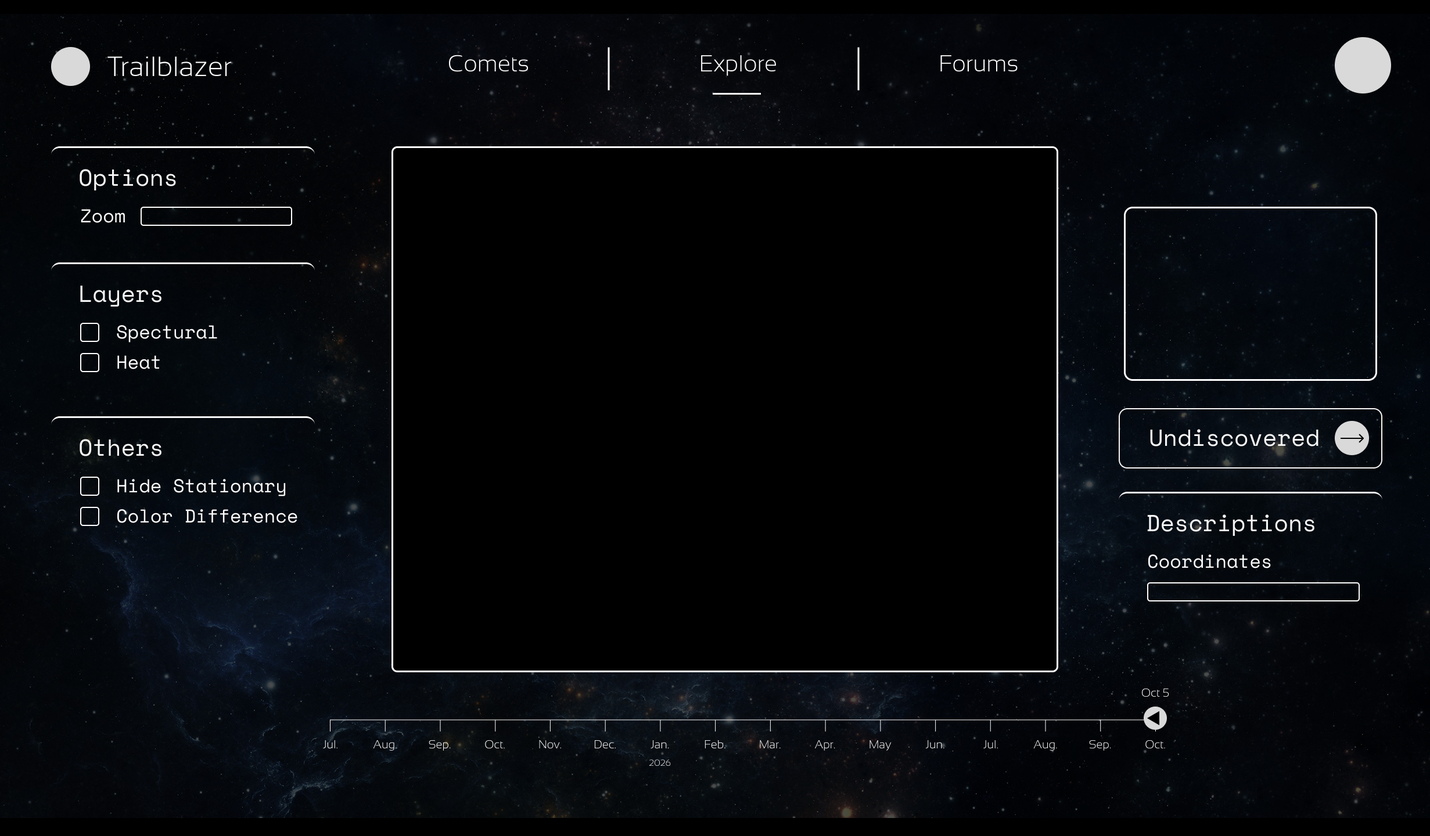
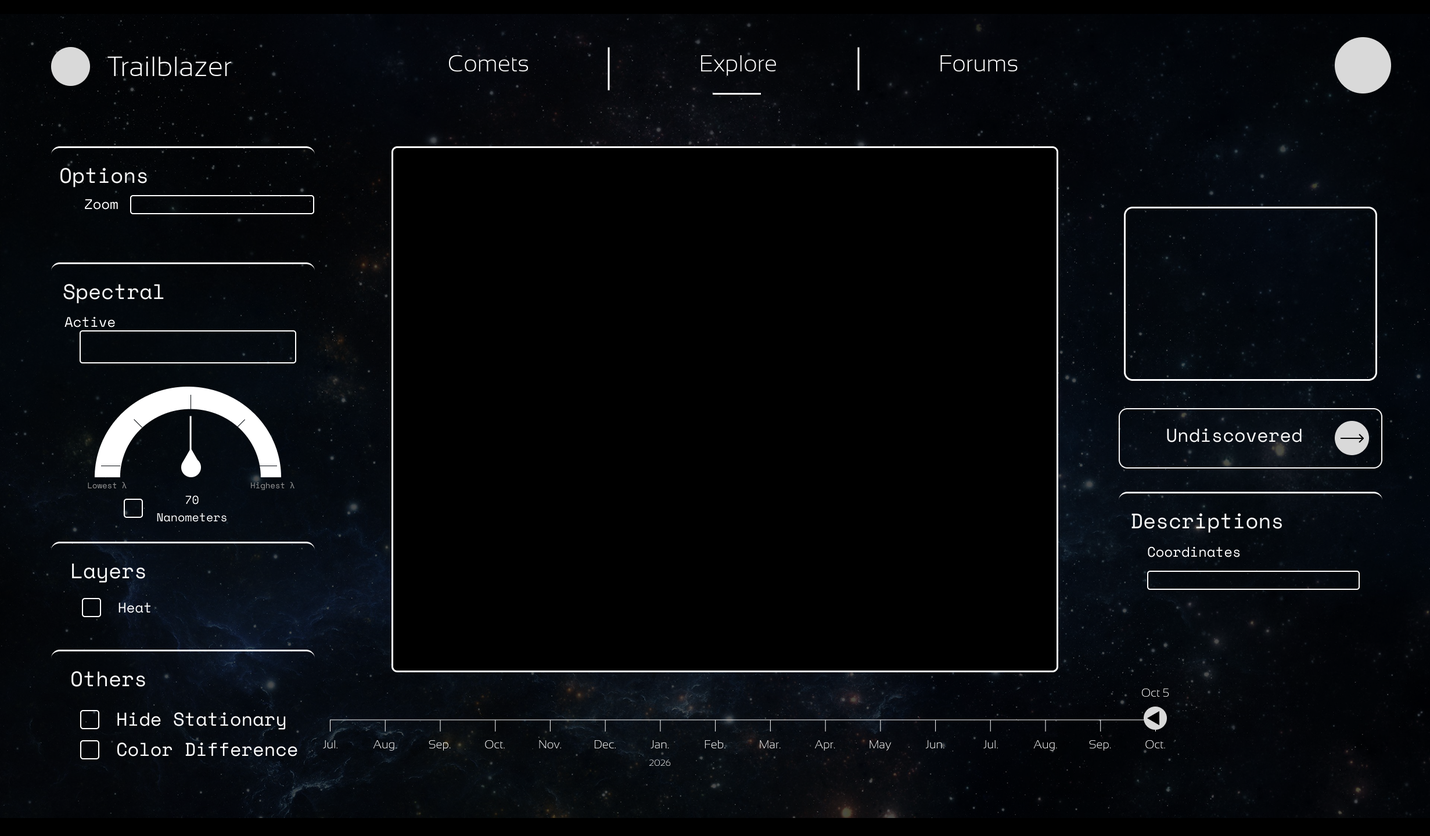
Patch viewer: updated Explore.png type sizes, and a Spectral dial
Text sizes and indents follow the revised Explore.png. A new Spectral card
steps through SPHEREx's 102 spectral channels on a dial (scroll, drag or
arrow keys); ticking the box adds that channel to the Active box, and
clicking an active chip removes it. Channel centres are log-spaced across
each detector's band until the measured ones arrive; active layers are kept
in state.spectral and announced with a spectral-layers event. The old
Spectral tint checkbox is gone; Layers keeps Heat.

diff --git a/web/timelapse.html b/web/timelapse.html
@@ -17,22 +17,50 @@
   <nav><a href="comet.html">Comets</a><a class="on" href="explore.html">Explore</a><a href="forums.html">Forums</a></nav>
 </header>
 
-<!-- Laid out from design/frontend-refactor/Explore.png (patch.css). Left: Options, Layers, Others. Middle: the patch.
-     Right: the whole region as a mini-map, Discovered/Undiscovered, Descriptions. Bottom: Explore's month timeline. -->
+<!-- Laid out from design/frontend-refactor/Explore.png (patch.css). Left: Options, Spectral, Layers, Others. Middle: the patch.
+     Right: the whole region as a mini-map, Discovered/Undiscovered, Descriptions. Bottom: Explore's month timeline.
+     Inside each left card, --x/--y/--cy are design pixels from the card's top-left corner. -->
 <div class="pstage" id="stage">
   <section class="pv-card pv-options" aria-label="Options">
-    <h2>Options</h2>
-    <label class="pv-row" for="fov">Zoom <input id="fov" type="range" min="1" max="12" step="0.5" value="6" aria-valuetext="6 arcmin wide"></label>
+    <h2 class="at" style="--x:14;--cy:50">Options</h2>
+    <label class="at t24" style="--x:57;--cy:99" for="fov">Zoom</label>
+    <input class="at" style="--x:136;--y:84" id="fov" type="range" min="1" max="12" step="0.5" value="6" aria-valuetext="6 arcmin wide">
   </section>
+
+  <!-- Spectral: SPHEREx splits its light into 102 channels. Scroll over the dial (or drag it, or use the arrow keys) to step
+       through them; tick the box to make that channel an active layer. Active layers sit in the box above; click one to
+       turn it off. The channel data is still to come: the page keeps the list (state.spectral) and announces changes. -->
+  <section class="pv-card pv-spectral" aria-label="Spectral">
+    <h2 class="at" style="--x:20;--cy:49">Spectral</h2>
+    <span class="at t24" style="--x:22;--cy:102" id="sp-active-label">Active</span>
+    <div class="at sp-active" style="--x:48;--y:117" id="sp-active" role="group" aria-labelledby="sp-active-label"></div>
+    <svg class="at sp-dial" style="--x:64.5;--y:202" id="sp-dial" viewBox="0 0 340 190" tabindex="0" role="slider" aria-label="Spectral channel. Scroll, drag or use the arrow keys" aria-valuemin="1" aria-valuemax="102" aria-valuenow="52">
+      <path class="band" d="M10 170A160 160 0 0 1 330 170H290A120 120 0 0 0 50 170Z"/>
+      <g id="sp-ticks"></g>
+      <g id="sp-marks"></g>
+      <g class="needle" id="sp-needle" style="transform-origin:170px 147px;transform-box:view-box">
+        <line x1="170" y1="120" x2="170" y2="62"/>
+        <path d="M170 113C176 125 187 135 187 147A17 17 0 1 1 153 147C153 135 164 125 170 113Z"/>
+      </g>
+    </svg>
+    <span class="at sp-end" style="--x:95;--cy:383" aria-hidden="true">Lowest λ</span>
+    <span class="at sp-end" style="--x:380;--cy:383" aria-hidden="true">Highest λ</span>
+    <input class="at cbx" style="--x:124;--y:407" type="checkbox" id="sp-on">
+    <label class="at sp-read" style="--x:241;--cy:408" for="sp-on" id="sp-nm">&nbsp;</label>
+    <label class="at sp-read" style="--x:241;--cy:438" for="sp-on">Nanometers</label>
+  </section>
+
   <section class="pv-card pv-layers" aria-label="Layers">
-    <h2>Layers</h2>
-    <label class="pv-row"><input class="cbx" type="checkbox" id="ly-spec"><span>Spectral</span></label>
-    <label class="pv-row"><input class="cbx" type="checkbox" id="ly-heat"><span>Heat</span></label>
+    <h2 class="at" style="--x:33;--cy:49">Layers</h2>
+    <input class="at cbx" style="--x:53;--y:96" type="checkbox" id="ly-heat">
+    <label class="at t24" style="--x:115;--cy:112" for="ly-heat">Heat</label>
   </section>
   <section class="pv-card pv-others" aria-label="Others">
-    <h2>Others</h2>
-    <label class="pv-row"><input class="cbx" type="checkbox" id="still"><span>Hide Stationary</span></label>
-    <label class="pv-row"><input class="cbx" type="checkbox" id="diff"><span>Color Difference</span></label>
+    <h2 class="at" style="--x:33;--cy:50">Others</h2>
+    <input class="at cbx" style="--x:49;--cy:119" type="checkbox" id="still">
+    <label class="at t32" style="--x:112;--cy:119" for="still">Hide Stationary</label>
+    <input class="at cbx" style="--x:49;--cy:171" type="checkbox" id="diff">
+    <label class="at t32" style="--x:112;--cy:171" for="diff">Color Difference</label>
   </section>
 
   <div class="pv-frame">
@@ -127,7 +155,7 @@ function load(key) {
 }
 TARGETS.forEach(t => load(t.key).catch(() => {}));   // preload: the demo never waits on the network
 
-const state = { m: null, i: 0, playing: false, last: 0, diff: false, still: false, heat: false, spec: false, fov: 6 };   // opens 6 arcmin wide; zoom to 1.5 for a 2-pixel move
+const state = { m: null, i: 0, playing: false, last: 0, diff: false, still: false, heat: false, fov: 6, spectral: [] };   // opens 6 arcmin wide; zoom to 1.5 for a 2-pixel move
 const patch = document.getElementById('patch'), ctx = patch.getContext('2d');
 const mini = document.getElementById('mini'), mini2d = mini.getContext('2d');
 const MONTH = ['Jan', 'Feb', 'Mar', 'Apr', 'May', 'Jun', 'Jul', 'Aug', 'Sep', 'Oct', 'Nov', 'Dec'];
@@ -144,11 +172,95 @@ const found = P.get('found');
   if (found) { const n = document.getElementById('vName'); n.hidden = false; n.innerHTML = 'Found as <b></b>'; n.querySelector('b').textContent = found; }
 }
 
+// ---------- Spectral: a dial through SPHEREx's 102 spectral channels, and the list of active ones ----------
+// SPHEREx has 6 detectors of 17 channels each, 0.75 to 5.0 µm. Channel centres here are spaced evenly in log wavelength
+// across each detector's band (the bands' published edges), close to the real ones; swap in the measured centres when
+// the per-channel data arrives. The dial runs from the lowest channel (needle left) to the highest (needle right).
+const SP_BANDS = [[0.75, 1.11], [1.11, 1.64], [1.64, 2.42], [2.42, 3.82], [3.82, 4.42], [4.42, 5.00]];
+const CHANNELS = SP_BANDS.flatMap(([lo, hi], d) => Array.from({ length: 17 }, (_, k) =>
+  ({ n: d * 17 + k, detector: `D${d + 1}`, um: lo * (hi / lo) ** ((k + 0.5) / 17) })));
+const nmOf = c => Math.round(c.um * 1000);
+const spectral = (() => {
+  const dial = document.getElementById('sp-dial'), needle = document.getElementById('sp-needle'), box = document.getElementById('sp-active');
+  const on = document.getElementById('sp-on'), read = document.getElementById('sp-nm'), marks = document.getElementById('sp-marks');
+  const N = CHANNELS.length, A0 = 172, A1 = 8, PX = 170, PY = 147;   // needle angle (degrees from +x) at the first and last channel; pivot
+  const angle = i => A0 - (A0 - A1) * i / (N - 1);
+  const polar = (deg, r, cx = 170, cy = 170) => [cx + r * Math.cos(deg * Math.PI / 180), cy - r * Math.sin(deg * Math.PI / 180)];
+  // the five ticks across the band: both ends, a quarter, the middle, three quarters
+  const ticks = document.getElementById('sp-ticks');
+  for (const deg of [A0, 135, 90, 45, A1]) {
+    const [x1, y1] = polar(deg, 120), [x2, y2] = polar(deg, 146);
+    ticks.insertAdjacentHTML('beforeend', `<line class="tick" x1="${x1.toFixed(1)}" y1="${y1.toFixed(1)}" x2="${x2.toFixed(1)}" y2="${y2.toFixed(1)}"/>`);
+  }
+  const api = { i: Math.floor(N / 2), active: new Set(), touched: false };
+  function emit() {
+    state.spectral = [...api.active].sort((a, b) => a - b).map(n => CHANNELS[n]);
+    dispatchEvent(new CustomEvent('spectral-layers', { detail: state.spectral }));   // for the per-channel layers, once their data exists
+  }
+  function paint() {
+    const c = CHANNELS[api.i];
+    needle.style.transform = `rotate(${90 - angle(api.i)}deg)`;
+    read.textContent = nmOf(c).toLocaleString('en-US');
+    on.checked = api.active.has(api.i);
+    on.setAttribute('aria-label', `Show the ${nmOf(c)} nanometre layer`);
+    dial.setAttribute('aria-valuenow', api.i + 1);
+    dial.setAttribute('aria-valuetext', `Channel ${api.i + 1} of ${N}: ${nmOf(c)} nanometres, detector ${c.detector}`);
+    box.querySelectorAll('.sp-chip').forEach(b => b.classList.toggle('cur', +b.dataset.n === api.i));
+  }
+  function chips() {
+    box.replaceChildren(...[...api.active].sort((a, b) => a - b).map(n => {
+      const b = document.createElement('button'), c = CHANNELS[n];
+      b.type = 'button'; b.className = 'sp-chip'; b.dataset.n = n; b.textContent = `${nmOf(c).toLocaleString('en-US')} nm`;
+      b.title = `Detector ${c.detector}. Click to turn this layer off`;
+      b.setAttribute('aria-label', `${nmOf(c)} nanometres, active. Click to turn it off`);
+      b.onclick = () => api.toggle(n, false);
+      return b;
+    }));
+    marks.innerHTML = [...api.active].map(n => { const [x, y] = polar(angle(n), 154); return `<circle class="on" cx="${x.toFixed(1)}" cy="${y.toFixed(1)}" r="3.5"/>`; }).join('');
+    paint();
+    const cur = box.querySelector('.cur');   // more layers than fit: scroll the box to the one on the dial
+    if (cur) box.scrollLeft = Math.max(0, Math.min(box.scrollLeft, cur.offsetLeft - 8), cur.offsetLeft + cur.offsetWidth - box.clientWidth + 8);
+  }
+  api.set = (i, byUser = true) => { i = Math.max(0, Math.min(N - 1, Math.round(i))); if (byUser) api.touched = true; if (i !== api.i) { api.i = i; paint(); } };
+  api.toggle = (n, want = !api.active.has(n)) => { want ? api.active.add(n) : api.active.delete(n); chips(); emit(); };
+  // open on the channel nearest the patch's own wavelength, until the user turns the dial
+  api.follow = um => { if (!api.touched) api.set(CHANNELS.reduce((b, c) => (Math.abs(Math.log(c.um / um)) < Math.abs(Math.log(CHANNELS[b].um / um)) ? c.n : b), 0), false); };
+
+  // scroll over the dial: one channel per wheel notch (a trackpad's small steps add up to one)
+  let acc = 0;
+  dial.addEventListener('wheel', e => {
+    e.preventDefault();
+    const d = Math.abs(e.deltaY) >= Math.abs(e.deltaX) ? e.deltaY : e.deltaX;
+    if (e.deltaMode || Math.abs(d) >= 50) { acc = 0; api.set(api.i + Math.sign(d)); return; }
+    acc += d;
+    if (Math.abs(acc) >= 40) { api.set(api.i + Math.sign(acc)); acc = 0; }
+  }, { passive: false });
+  // or drag the needle round
+  const fromPointer = e => {
+    const r = dial.getBoundingClientRect(), x = (e.clientX - r.left) / r.width * 340, y = (e.clientY - r.top) / r.height * 190;
+    const deg = Math.atan2(PY - y, x - PX) * 180 / Math.PI, clamped = deg < -90 ? 180 : Math.max(A1, Math.min(A0, deg));
+    api.set((A0 - clamped) / (A0 - A1) * (N - 1));
+  };
+  dial.addEventListener('pointerdown', e => { if (e.button) return; dial.setPointerCapture(e.pointerId); dial.focus({ preventScroll: true }); fromPointer(e); });
+  dial.addEventListener('pointermove', e => { if (dial.hasPointerCapture(e.pointerId)) fromPointer(e); });
+  dial.addEventListener('keydown', e => {
+    const step = { ArrowLeft: -1, ArrowDown: -1, ArrowRight: 1, ArrowUp: 1, PageDown: -17, PageUp: 17 }[e.key];
+    if (step) api.set(api.i + step);
+    else if (e.key === 'Home') api.set(0);
+    else if (e.key === 'End') api.set(N - 1);
+    else if (e.key === 'Enter' || e.key === ' ') api.toggle(api.i);
+    else return;
+    e.preventDefault(); e.stopPropagation();
+  });
+  on.addEventListener('change', () => api.toggle(api.i, on.checked));
+  chips();
+  return api;
+})();
+window.__spectral = spectral;   // for tests
+
 // ---------- layers ----------
-// Spectral: tint by the band's wavelength, 0.75 µm (blue) to 5 µm (red), the way infrared pictures are usually coloured.
-const RAMP = [[0, [120, 170, 255]], [.2, [110, 225, 255]], [.4, [140, 255, 170]], [.6, [255, 235, 120]], [.8, [255, 160, 80]], [1, [255, 95, 95]]];
 const HEAT = [[0, [120, 20, 10]], [.45, [235, 70, 30]], [.8, [255, 170, 60]], [1, [255, 245, 190]]];
-function ramp(t, stops = RAMP) {
+function ramp(t, stops) {
   t = Math.min(1, Math.max(0, t));
   for (let n = 1; n < stops.length; n++) if (t <= stops[n][0]) {
     const [t0, a] = stops[n - 1], [t1, b] = stops[n], f = (t - t0) / (t1 - t0);
@@ -193,7 +305,7 @@ function shade(m, f, c, r, data, j) {
     else {
       const x = Number.isFinite(x0) ? Math.asinh(Math.max(0, (x0 - (state.still ? 0 : lo)) / (fieldHi - lo)) * 10) / A : (state.still ? 0 : 1);
       const g = Math.min(1, x);
-      rgb = state.spec ? ramp((f.lam - 0.75) / 4.25).map(t => g * t) : [255 * g, 247 * g, 235 * g];
+      rgb = [255 * g, 247 * g, 235 * g];
     }
   }
   if (state.heat && m.sd) {   // Heat: the pixels that change most between visits glow, dark red to pale yellow
@@ -302,6 +414,7 @@ function panel(m) {
   const matched = m.frames.filter(f => f.matched).length;
   document.getElementById('det').title = `Wavelength ${m.lam0.toFixed(2)} µm: ${matched} of ${m.frames.length} visits within ${m.lam_tol.toFixed(3)} µm, detector ${m.detector}`;
   timeline.visits(m);
+  spectral.follow(m.lam0);   // the dial opens on this patch's own wavelength
 }
 
 // ---------- timeline (Explore's): a tick per month across SPHEREx's data, a dot per visit, the date over the handle ----------
@@ -455,7 +568,7 @@ const fov = document.getElementById('fov');
 const setFov = () => { state.fov = 13 - +fov.value; fov.style.setProperty('--p', (+fov.value - 1) / 11 * 100 + '%'); fov.setAttribute('aria-valuetext', `${state.fov} arcmin wide`); };
 fov.value = 13 - state.fov; setFov();
 fov.oninput = () => { setFov(); draw(); };
-for (const [id, key] of [['diff', 'diff'], ['still', 'still'], ['ly-heat', 'heat'], ['ly-spec', 'spec']])
+for (const [id, key] of [['diff', 'diff'], ['still', 'still'], ['ly-heat', 'heat']])
   document.getElementById(id).onchange = e => { state[key] = e.target.checked; draw(); };
 addEventListener('keydown', e => {
   if (!state.m || /INPUT|SELECT/.test(e.target.tagName) || e.target === playBtn) return;

diff --git a/web/patch.css b/web/patch.css
@@ -20,14 +20,20 @@ canvas#gl.drag { cursor: grabbing; }
 }
 .pstage > * { position: absolute; pointer-events: auto; }
 
-/* ---------- cards: a white top rule that curls down at both ends, on black ---------- */
-.pv-card { margin: 0; padding: calc(27 * var(--e)) 0 calc(22 * var(--e)) calc(46 * var(--e)); background: #000; border: 0; border-top: max(1.5px, calc(3 * var(--e))) solid #fff; border-radius: calc(20 * var(--e)) calc(20 * var(--e)) 0 0; }
-.pv-card h2 { margin: 0 0 calc(26 * var(--e)); font: 400 calc(40 * var(--e)) / 1 var(--panel-font); letter-spacing: 0; color: #fff; }
-.pv-options { left: calc(89 * var(--e)); top: calc(230 * var(--e)); width: calc(453 * var(--e)); }
-.pv-layers { left: calc(89 * var(--e)); top: calc(430 * var(--e)); width: calc(453 * var(--e)); }
-.pv-others { left: calc(89 * var(--e)); top: calc(694 * var(--e)); width: calc(453 * var(--e)); }
-.pv-row { display: flex; align-items: center; gap: calc(30 * var(--e)); height: calc(42 * var(--e)); margin: 0 0 calc(11 * var(--e)) calc(3 * var(--e)); font-size: calc(32 * var(--e)); color: #f2f2f2; white-space: nowrap; }
-label.pv-row { cursor: pointer; }
+/* ---------- cards: a white top rule that curls down at both ends, on black ----------
+   Each card is laid out in its own design pixels (Explore.png, 2026-11-15 revision): .at children sit at
+   left --x, and either top --y or vertical centre --cy, measured from the card's top-left corner. */
+.pv-card { margin: 0; padding: 0; box-sizing: border-box; background: #000; border: 0; border-top: max(1.5px, calc(3 * var(--e))) solid #fff; border-radius: calc(20 * var(--e)) calc(20 * var(--e)) 0 0; color: #f2f2f2; }
+.pv-card .at { position: absolute; margin: 0; left: calc(var(--x) * var(--e)); top: calc(var(--y, 0) * var(--e)); }
+.pv-card .at[style*="--cy"] { top: calc(var(--cy) * var(--e)); transform: translateY(-50%); }
+.pv-card h2 { font: 400 calc(36 * var(--e)) / 1 var(--panel-font); letter-spacing: 0; color: #fff; white-space: nowrap; }
+.t24 { font-size: calc(24 * var(--e)); line-height: 1; white-space: nowrap; }
+.t32 { font-size: calc(32 * var(--e)); line-height: 1; white-space: nowrap; }
+label.at { cursor: pointer; }
+.pv-options { left: calc(89 * var(--e)); top: calc(228 * var(--e)); width: calc(452 * var(--e)); height: calc(150 * var(--e)); }
+.pv-spectral { left: calc(89 * var(--e)); top: calc(428 * var(--e)); width: calc(452 * var(--e)); height: calc(462 * var(--e)); }
+.pv-layers { left: calc(89 * var(--e)); top: calc(910 * var(--e)); width: calc(452 * var(--e)); height: calc(160 * var(--e)); }
+.pv-others { left: calc(89 * var(--e)); top: calc(1095 * var(--e)); width: calc(452 * var(--e)); height: calc(212 * var(--e)); }
 
 /* the checkbox from Explore's Layers, at design size */
 .cbx { -webkit-appearance: none; appearance: none; flex: none; width: calc(32 * var(--e)); height: calc(32 * var(--e)); min-width: 14px; min-height: 14px; margin: 0; border: max(1.5px, calc(3 * var(--e))) solid #fff; border-radius: calc(4 * var(--e)); background: transparent; cursor: pointer; display: grid; place-items: center; }
@@ -35,12 +41,34 @@ label.pv-row { cursor: pointer; }
 .cbx:checked::after { transform: none; }
 .cbx:focus-visible { outline: 2px solid #fff; outline-offset: 2px; }
 
-/* Zoom: an outlined bar that fills as you zoom in */
-#fov { -webkit-appearance: none; appearance: none; width: calc(260 * var(--e)); height: calc(31 * var(--e)); min-height: 12px; margin: 0; box-sizing: border-box; border: max(1.5px, calc(3 * var(--e))) solid #fff; border-radius: calc(5 * var(--e)); cursor: pointer;
+/* Zoom: an outlined bar that fills as you zoom in; it runs to the card's right edge */
+#fov { -webkit-appearance: none; appearance: none; width: calc(315 * var(--e)); height: calc(31 * var(--e)); min-height: 12px; box-sizing: border-box; border: max(1.5px, calc(3 * var(--e))) solid #fff; border-radius: calc(5 * var(--e)); cursor: pointer;
   background: linear-gradient(rgba(255, 255, 255, .5), rgba(255, 255, 255, .5)) 0 0 / var(--p, 50%) 100% no-repeat; }
 #fov::-webkit-slider-thumb { -webkit-appearance: none; width: calc(8 * var(--e)); min-width: 4px; height: calc(31 * var(--e)); min-height: 12px; background: #fff; border: 0; border-radius: 0; }
 #fov::-moz-range-thumb { width: calc(8 * var(--e)); min-width: 4px; height: calc(25 * var(--e)); background: #fff; border: 0; border-radius: 0; }
 #fov:focus-visible { outline: 2px solid #fff; outline-offset: 3px; }
+
+/* ---------- Spectral: the active layers, and a dial through SPHEREx's 102 spectral channels ---------- */
+.sp-active { width: calc(372 * var(--e)); height: calc(55 * var(--e)); min-height: 26px; box-sizing: border-box; display: flex; align-items: center; gap: calc(10 * var(--e)); padding: 0 calc(10 * var(--e));
+  border: max(1.5px, calc(3 * var(--e))) solid #fff; border-radius: calc(5 * var(--e)); overflow-x: auto; overflow-y: hidden; scrollbar-width: none; }
+.sp-active::-webkit-scrollbar { display: none; }
+.sp-active:empty::before { content: "None yet"; font-size: calc(18 * var(--e)); color: rgba(255, 255, 255, .38); }
+.sp-chip { flex: none; display: inline-flex; align-items: center; gap: calc(8 * var(--e)); height: calc(33 * var(--e)); min-height: 18px; padding: 0 calc(12 * var(--e)); border: max(1px, calc(2 * var(--e))) solid #fff; border-radius: 999px; background: #000; color: #fff;
+  font: 400 calc(17 * var(--e)) / 1 var(--panel-font); white-space: nowrap; cursor: pointer; transition: background .15s, color .15s; }
+.sp-chip::after { content: "\00d7"; font-size: 1.2em; opacity: .6; }
+.sp-chip:hover, .sp-chip:focus-visible { background: #fff; color: #000; outline: 0; }
+.sp-chip.cur { box-shadow: 0 0 0 calc(3 * var(--e)) rgba(255, 255, 255, .35); }
+.sp-dial { width: calc(340 * var(--e)); height: calc(190 * var(--e)); display: block; overflow: visible; cursor: ns-resize; touch-action: none; outline: 0; }
+.sp-dial .band { fill: #fff; }
+.sp-dial .tick { stroke: #000; stroke-width: 3; stroke-linecap: butt; }
+.sp-dial .on { fill: #000; }   /* active channels: a short notch on the band */
+.sp-dial .needle { transition: transform .12s var(--ease); }
+.sp-dial .needle line { stroke: #fff; stroke-width: 4; stroke-linecap: round; }
+.sp-dial .needle path { fill: #fff; }
+.sp-dial:focus-visible .band { fill: #e8eefc; }
+.sp-dial:focus-visible { filter: drop-shadow(0 0 calc(10 * var(--e)) rgba(255, 255, 255, .45)); }
+.sp-end { font-size: calc(14 * var(--e)); line-height: 1; color: #aeb6c6; white-space: nowrap; transform: translate(-50%, -50%) !important; }
+.sp-read { text-align: center; font-size: calc(20 * var(--e)); line-height: 1; white-space: nowrap; transform: translate(-50%, -50%) !important; }
 
 /* ---------- the patch ---------- */
 .pv-frame { left: calc(675 * var(--e)); top: calc(229 * var(--e)); width: calc(1146 * var(--e)); height: calc(902 * var(--e)); box-sizing: border-box; border: max(1.5px, calc(3 * var(--e))) solid #fff; border-radius: calc(10 * var(--e)); background: #000; overflow: hidden; }
@@ -56,24 +84,27 @@ body.busy .pv-frame { animation: breathe 1.6s ease-in-out infinite; }
 .pv-mini { left: calc(1936 * var(--e)); top: calc(332 * var(--e)); width: calc(434 * var(--e)); height: calc(297 * var(--e)); box-sizing: border-box; border: max(1.5px, calc(3 * var(--e))) solid #fff; border-radius: calc(14 * var(--e)); overflow: hidden; }
 #mini { display: block; width: 100%; height: 100%; }
 
-.pv-state { left: calc(1927 * var(--e)); top: calc(680 * var(--e)); width: calc(451 * var(--e)); height: calc(102 * var(--e)); box-sizing: border-box; display: flex; align-items: center; justify-content: space-between;
-  padding: 0 calc(21 * var(--e)) 0 calc(49 * var(--e)); border: max(1.5px, calc(3 * var(--e))) solid #fff; border-radius: calc(16 * var(--e)); background: #000; color: #fff; text-decoration: none;
-  font: 400 calc(41 * var(--e)) / 1 var(--panel-font); letter-spacing: .02em; transition: background .2s; }
+.pv-state { left: calc(1927 * var(--e)); top: calc(680 * var(--e)); width: calc(451 * var(--e)); height: calc(102 * var(--e)); box-sizing: border-box; display: flex; align-items: center;
+  padding: 0 calc(21 * var(--e)) 0 calc(21 * var(--e)); border: max(1.5px, calc(3 * var(--e))) solid #fff; border-radius: calc(16 * var(--e)); background: #000; color: #fff; text-decoration: none;
+  font: 400 calc(32 * var(--e)) / 1 var(--panel-font); letter-spacing: .02em; transition: background .2s; }
+.pv-state > span:first-child { flex: 1; text-align: center; }   /* the word sits centred in the space left of the arrow */
 .pv-state:hover { background: #141414; }
 .pv-state:focus-visible { outline: 2px solid #fff; outline-offset: 3px; }
 .pv-state .go { flex: none; width: calc(59 * var(--e)); height: calc(59 * var(--e)); min-width: 24px; min-height: 24px; border-radius: 50%; background: #ececec; color: #050505; display: grid; place-items: center; transition: transform .2s var(--ease); }
 .pv-state .go svg { width: 62%; height: 62%; fill: none; stroke: currentColor; stroke-width: 1.6; stroke-linecap: round; stroke-linejoin: round; }
 .pv-state:hover .go { transform: translateX(calc(4 * var(--e))); }
 
-.pv-desc { left: calc(1927 * var(--e)); top: calc(825 * var(--e)); width: calc(451 * var(--e)); max-height: calc(335 * var(--e)); box-sizing: border-box; padding-right: calc(30 * var(--e)); overflow-y: auto; scrollbar-width: thin; }
-.pv-desc h2 { margin-bottom: calc(32 * var(--e)); }
-.pv-desc label { display: block; font-size: calc(32 * var(--e)); line-height: 1; color: #f2f2f2; }
-.pv-desc .box { display: block; width: calc(364 * var(--e)); height: calc(31 * var(--e)); min-height: 14px; margin: calc(21 * var(--e)) 0 0 calc(3 * var(--e)); box-sizing: border-box; padding: 0 calc(10 * var(--e));
+/* Descriptions: title 21 in from the rule, everything under it a further 28 in (to the Coordinates box) */
+.pv-desc { left: calc(1927 * var(--e)); top: calc(825 * var(--e)); width: calc(451 * var(--e)); max-height: calc(335 * var(--e)); padding: calc(26 * var(--e)) calc(30 * var(--e)) calc(22 * var(--e)) calc(21 * var(--e)); overflow-y: auto; scrollbar-width: thin; }
+.pv-desc h2 { position: static; margin: 0 0 calc(23 * var(--e)); }
+.pv-desc form, .pv-desc .pv-info { margin-left: calc(28 * var(--e)); }
+.pv-desc label { display: block; font-size: calc(24 * var(--e)); line-height: 1; color: #f2f2f2; }
+.pv-desc .box { display: block; width: calc(364 * var(--e)); height: calc(31 * var(--e)); min-height: 14px; margin: calc(22 * var(--e)) 0 0; box-sizing: border-box; padding: 0 calc(10 * var(--e));
   border: max(1.5px, calc(3 * var(--e))) solid #fff; border-radius: calc(5 * var(--e)); background: transparent; color: #fff; font: 400 calc(19 * var(--e)) / 1 var(--panel-font); outline: 0; }
 .pv-desc .box:focus { background: rgba(255, 255, 255, .08); }
 .pv-desc select.box { appearance: none; -webkit-appearance: none; cursor: pointer; }
 .pv-desc select.box option { background: #0b0f1a; }
-.pv-desc .sub { display: flex; align-items: center; gap: calc(14 * var(--e)); margin-top: calc(14 * var(--e)); font-size: calc(22 * var(--e)); color: #cfd6e4; }
+.pv-desc .sub { display: flex; align-items: center; gap: calc(14 * var(--e)); width: calc(364 * var(--e)); margin-top: calc(14 * var(--e)); }
 .pv-desc .sub .box { flex: 1; width: auto; margin: 0; }
 .pv-info { margin: calc(16 * var(--e)) 0 0; font: 400 calc(20 * var(--e)) / 1.4 var(--panel-font); color: #cfd6e4; }
 .pv-info b { color: #fff; font-weight: 400; }
@@ -126,11 +157,10 @@ body:not(.sky) #skyui, body:not(.sky) .tmark { display: none !important; }   /* 
   .pv-state { order: 3; height: 56px; font-size: 20px; padding: 0 12px 0 22px; }
   .pv-mini { order: 4; width: min(100%, 434px); height: auto; aspect-ratio: 434 / 297; }
   .pv-desc { order: 5; max-height: none; padding-right: 0; }
-  .pv-options { order: 6; } .pv-layers { order: 7; } .pv-others { order: 8; }
-  .pv-card { padding: 14px 0 0 18px; border-top-width: 1.5px; }
-  .pv-card h2 { font-size: 20px; margin-bottom: 12px; }
-  .pv-row, .pv-desc label { font-size: 15px; height: 32px; gap: 14px; }
-  #fov { width: 180px; height: 16px; }
+  .pv-options { order: 6; } .pv-spectral { order: 7; } .pv-layers { order: 8; } .pv-others { order: 9; }
+  /* the left cards keep their own layout, at three quarters of a pixel per design pixel (339 px wide) */
+  .pv-options, .pv-spectral, .pv-layers, .pv-others { --e: .75px; width: calc(452 * var(--e)); max-width: 100%; }
+  .pv-desc label { font-size: 15px; }
   .pv-desc .box { width: min(100%, 320px); height: 34px; font-size: 14px; margin-top: 10px; }
   .pv-desc .sub, .pv-info { font-size: 13px; }
   #status { font-size: 12px; }
